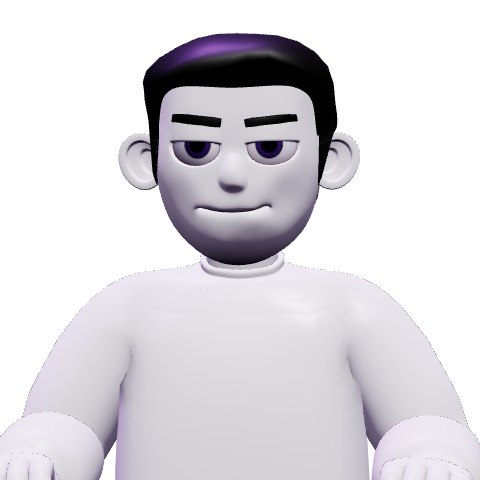
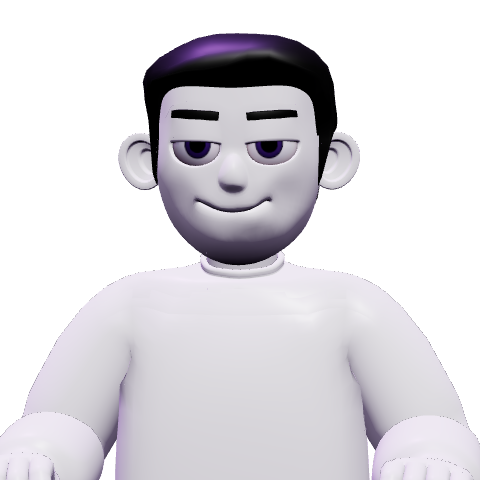
feat: add friendly mobile character motion

diff --git a/src/components/Character/MobileCharacter.tsx b/src/components/Character/MobileCharacter.tsx
@@ -1,7 +1,8 @@
 import { useEffect, useRef, useState } from "react";
 import * as THREE from "three";
-import { assetUrl } from "../../config";
+import { mobileCharacterPortraitUrl } from "../../config";
 import setCharacter from "./utils/character";
+import { setMobileExpression } from "./utils/mobileExpression";
 
 function disposeCharacter(character: THREE.Object3D) {
   character.traverse((object) => {
@@ -56,27 +57,119 @@ const MobileCharacter = () => {
 
     let active = true;
     let character: THREE.Object3D | undefined;
-    let mixer: THREE.AnimationMixer | undefined;
+    let introMixer: THREE.AnimationMixer | undefined;
+    let expressionMixer: THREE.AnimationMixer | undefined;
+    let blinkMixer: THREE.AnimationMixer | undefined;
+    let blinkAction: THREE.AnimationAction | undefined;
+    let blinkDuration = 0;
+    let blinkTimer: number | undefined;
+    let animationFrame: number | undefined;
+    let visible = false;
+    let graphicsReady = false;
+    let renderedWidth = 0;
+    let renderedHeight = 0;
+    const reducedMotion = window.matchMedia("(prefers-reduced-motion: reduce)");
+
     const render = () => {
       const { width, height } = container.getBoundingClientRect();
       if (!active || !width || !height || renderer.getContext().isContextLost()) return false;
-      renderer.setSize(width, height);
-      camera.aspect = width / height;
-      camera.updateProjectionMatrix();
+      if (width !== renderedWidth || height !== renderedHeight) {
+        renderer.setSize(width, height);
+        camera.aspect = width / height;
+        camera.updateProjectionMatrix();
+        renderedWidth = width;
+        renderedHeight = height;
+      }
       renderer.render(scene, camera);
       return true;
     };
+
+    const canBlink = () =>
+      active &&
+      visible &&
+      graphicsReady &&
+      !document.hidden &&
+      !reducedMotion.matches &&
+      !renderer.getContext().isContextLost() &&
+      Boolean(blinkAction && blinkMixer);
+
+    const stopMotion = () => {
+      if (blinkTimer !== undefined) window.clearTimeout(blinkTimer);
+      if (animationFrame !== undefined) window.cancelAnimationFrame(animationFrame);
+      blinkTimer = undefined;
+      animationFrame = undefined;
+      if (blinkAction?.isScheduled()) {
+        blinkAction.stop();
+        render();
+      }
+    };
+
+    const scheduleBlink = () => {
+      if (!canBlink() || blinkTimer !== undefined || animationFrame !== undefined) return;
+      blinkTimer = window.setTimeout(() => {
+        blinkTimer = undefined;
+        if (!canBlink() || !blinkAction || !blinkMixer) return;
+
+        blinkAction.reset().play();
+        let previousTime: number | undefined;
+        const animate = (time: number) => {
+          animationFrame = undefined;
+          if (!canBlink() || !blinkAction || !blinkMixer) {
+            stopMotion();
+            return;
+          }
+
+          const delta = previousTime === undefined ? 0 : Math.min((time - previousTime) / 1000, 0.1);
+          previousTime = time;
+          blinkMixer.update(delta);
+          if (!render()) {
+            stopMotion();
+            return;
+          }
+
+          if (blinkAction.time >= blinkDuration) {
+            blinkAction.stop();
+            render();
+            scheduleBlink();
+          } else {
+            animationFrame = window.requestAnimationFrame(animate);
+          }
+        };
+        animationFrame = window.requestAnimationFrame(animate);
+      }, 3500 + Math.random() * 2500);
+    };
+
+    const syncMotion = () => {
+      if (canBlink()) scheduleBlink();
+      else stopMotion();
+    };
+    const visibility = new IntersectionObserver(
+      ([entry]) => {
+        visible = entry.isIntersecting && entry.intersectionRatio >= 0.15;
+        syncMotion();
+      },
+      { threshold: 0.15 }
+    );
+    visibility.observe(container);
+    document.addEventListener("visibilitychange", syncMotion);
+    reducedMotion.addEventListener("change", syncMotion);
 
     const resize = new ResizeObserver(render);
     resize.observe(container);
     const onContextLost = (event: Event) => {
       event.preventDefault();
+      graphicsReady = false;
+      stopMotion();
       setStatus("fallback");
       console.error("Mobile character WebGL context lost; showing its portrait.");
     };
     const onContextRestored = () => {
+      renderedWidth = 0;
+      renderedHeight = 0;
       const rendered = render();
-      setStatus(character && rendered ? "ready" : "loading");
+      graphicsReady = Boolean(character && rendered);
+      setStatus(graphicsReady ? "ready" : character ? "fallback" : "loading");
+      syncMotion();
     };
     renderer.domElement.addEventListener("webglcontextlost", onContextLost);
     renderer.domElement.addEventListener("webglcontextrestored", onContextRestored);
@@ -91,12 +184,25 @@ const MobileCharacter = () => {
         character = gltf.scene;
         const intro = gltf.animations.find((clip) => clip.name === "introAnimation");
         if (intro) {
-          mixer = new THREE.AnimationMixer(character);
-          const action = mixer.clipAction(intro);
+          introMixer = new THREE.AnimationMixer(character);
+          const action = introMixer.clipAction(intro);
           action.setLoop(THREE.LoopOnce, 1);
           action.clampWhenFinished = true;
           action.play();
-          mixer.update(intro.duration);
+          introMixer.update(intro.duration);
+        }
+        expressionMixer = setMobileExpression(character, gltf.animations);
+        const blink = gltf.animations.find((clip) => clip.name === "Blink");
+        if (blink) {
+          // Use one complete blink from the template's 24fps animation.
+          const singleBlink = THREE.AnimationUtils.subclip(blink, "mobile-blink", 10, 20, 24);
+          blinkMixer = new THREE.AnimationMixer(character);
+          blinkAction = blinkMixer.clipAction(singleBlink);
+          blinkAction.setLoop(THREE.LoopOnce, 1);
+          blinkAction.clampWhenFinished = true;
+          blinkDuration = singleBlink.duration;
+        } else {
+          console.warn("Mobile character blink animation not found; displaying a static character.");
         }
         const monitor = character.getObjectByName("Plane004");
         if (monitor) {
@@ -107,22 +213,35 @@ const MobileCharacter = () => {
         if (screenLight) screenLight.visible = false;
         character.rotation.y = -0.08;
         scene.add(character);
-        setStatus(render() ? "ready" : "fallback");
+        graphicsReady = render();
+        setStatus(graphicsReady ? "ready" : "fallback");
+        syncMotion();
       })
       .catch((error: unknown) => {
         console.error("Mobile character failed to load; showing its portrait:", error);
-        if (active) setStatus("fallback");
+        if (active) {
+          graphicsReady = false;
+          stopMotion();
+          setStatus("fallback");
+        }
       });
 
     return () => {
       active = false;
+      stopMotion();
+      visibility.disconnect();
       resize.disconnect();
+      document.removeEventListener("visibilitychange", syncMotion);
+      reducedMotion.removeEventListener("change", syncMotion);
       renderer.domElement.removeEventListener("webglcontextlost", onContextLost);
       renderer.domElement.removeEventListener("webglcontextrestored", onContextRestored);
       if (character) {
-        mixer?.stopAllAction();
-        mixer?.uncacheRoot(character);
-        disposeCharacter(character);
+        const currentCharacter = character;
+        [introMixer, expressionMixer, blinkMixer].forEach((mixer) => {
+          mixer?.stopAllAction();
+          mixer?.uncacheRoot(currentCharacter);
+        });
+        disposeCharacter(currentCharacter);
       }
       scene.clear();
       renderer.dispose();
@@ -139,7 +258,7 @@ const MobileCharacter = () => {
     >
       <img
         className="mobile-character-portrait"
-        src={assetUrl("images/character-mobile.png")}
+        src={mobileCharacterPortraitUrl}
         alt=""
         width="480"
         height="480"

diff --git a/src/components/Character/utils/mobileExpression.ts b/src/components/Character/utils/mobileExpression.ts
@@ -1,0 +1,49 @@
+import * as THREE from "three";
+
+export function setMobileExpression(
+  character: THREE.Object3D,
+  animations: THREE.AnimationClip[]
+): THREE.AnimationMixer | undefined {
+  const face = character.getObjectByName("Plane007");
+  if (face instanceof THREE.SkinnedMesh) {
+    const position = face.geometry.getAttribute("position");
+
+    // The template has no smile morph; these are its mouth's mesh-local coordinates.
+    const mouthHeight = 12.63;
+    const halfWidth = 0.45;
+    const outerEdge = 0.43;
+    const cornerLift = 0.1;
+    for (let index = 0; index < position.count; index++) {
+      const x = Math.abs(position.getX(index));
+      const y = position.getY(index);
+      const z = position.getZ(index);
+      const bend = Math.min(x / halfWidth, 1) ** 2;
+      const outerFalloff = Math.exp(-((Math.max(0, x - outerEdge) / 0.18) ** 2));
+      const verticalFalloff = Math.exp(-(((y - mouthHeight) / 0.19) ** 2));
+      const front = THREE.MathUtils.clamp((z - 0.6) / 0.25, 0, 1);
+      position.setY(index, y + cornerLift * bend * outerFalloff * verticalFalloff * front);
+    }
+
+    position.needsUpdate = true;
+    face.geometry.computeBoundingSphere();
+  } else {
+    console.warn("Mobile character face mesh not found; retaining its original expression.");
+  }
+
+  const browClip = animations.find((clip) => clip.name === "browup");
+  const browTracks = browClip?.tracks.filter(
+    (track) => track.name.startsWith("eyebrow_L.") || track.name.startsWith("eyebrow_R.")
+  );
+  if (!browClip || !browTracks?.length) {
+    console.warn("Mobile character eyebrow animation not found; retaining its original pose.");
+    return;
+  }
+
+  const mixer = new THREE.AnimationMixer(character);
+  const action = mixer.clipAction(
+    new THREE.AnimationClip("mobile-brows", browClip.duration, browTracks)
+  );
+  action.play();
+  mixer.update(0.5);
+  return mixer;
+}

diff --git a/src/components/MainContainer.tsx b/src/components/MainContainer.tsx
@@ -11,7 +11,7 @@ import Work from "./Work";
 import TechStackNew from "./TechStackNew";
 import CallToAction from "./CallToAction";
 import setSplitText from "./utils/splitText";
-import { assetUrl } from "../config";
+import { mobileCharacterPortraitUrl } from "../config";
 
 const MobileCharacter = lazy(() => import("./Character/MobileCharacter"));
 
@@ -75,7 +75,7 @@ const MainContainer = ({ children }: PropsWithChildren) => {
                 <div className="mobile-character">
                   <img
                     className="mobile-character-portrait"
-                    src={assetUrl("images/character-mobile.png")}
+                    src={mobileCharacterPortraitUrl}
                     alt="Stylised character from the portfolio template"
                     width="480"
                     height="480"

diff --git a/src/config.ts b/src/config.ts
@@ -3,6 +3,8 @@ const baseUrl = import.meta.env.BASE_URL;
 export const assetUrl = (path: string) =>
   `${baseUrl}${path.replace(/^\/+/, "")}`;
 
+export const mobileCharacterPortraitUrl = assetUrl("images/character-mobile.png?v=smile");
+
 export const config = {
   developer: {
     name: "Naman",

diff --git a/README.md b/README.md
@@ -21,7 +21,7 @@ Capability cards start collapsed and expand using native disclosure controls. De
 
 The horizontal project sequence measures its last card on each scroll refresh, including after styles and fonts settle. Mobile and reduced-motion layouts use an unpinned vertical list.
 
-Mobile and tablet heroes show the same template character in a static, low-power 3D portrait. It renders on load and resize rather than running the desktop scroll animation. A portrait of the same model remains visible while loading or if WebGL is unavailable; mobile content never waits for graphics.
+Mobile and tablet heroes show the same template character in a low-power 3D portrait with a gentle smile and occasional blink. It renders only on load, resize, or while blinking; motion pauses offscreen, in hidden tabs, and when reduced motion is enabled. A matching portrait remains visible while loading or if WebGL is unavailable; mobile content never waits for graphics.
 
 ## Attribution and license
 
